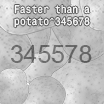
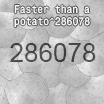
fix r135 name, requirement, description, and image

diff --git a/javascripts/game.js b/javascripts/game.js
@@ -2024,7 +2024,7 @@ function setAchieveTooltip() {
     var forgotAchieve = document.getElementById("I forgot to nerf that")
     var potato = document.getElementById("Faster than a potato")
     let potato2 = document.getElementById("Faster than a squared potato")
-    let potato3 = document.getElementById("Faster than a potato^345678")
+    let potato3 = document.getElementById("Faster than a potato^286078")
     var dimensional = document.getElementById("Multidimensional")
     var IPBelongs = document.getElementById("All your IP are belong to us")
     var reference = document.getElementById("Yet another infinity reference")
@@ -2053,7 +2053,7 @@ function setAchieveTooltip() {
     sanic.setAttribute('ach-tooltip', "Have antimatter/sec exceed your current antimatter above " + formatValue(player.options.notation, 1e63, 0, 0));
     potato.setAttribute('ach-tooltip', "Get more than " + formatValue(player.options.notation, 1e29, 0, 0) + " ticks per second. Reward: Reduces starting tick interval by 2%.");
     potato2.setAttribute('ach-tooltip', "Get more than " + formatValue(player.options.notation, 1e58, 0, 0) + " ticks per second. Reward: Reduces starting tick interval by 2%.");
-    potato3.setAttribute('ach-tooltip', "Get more than "+shortenCosts(new Decimal("1e8296272"))+" ticks per second.")
+    potato3.setAttribute('ach-tooltip', "Get more than "+shortenCosts(new Decimal("1e8296262"))+" ticks per second.")
     dimensional.setAttribute('ach-tooltip', "Reach " + formatValue(player.options.notation, 1e12, 0, 0) + " of all dimensions except 8th.");
     IPBelongs.setAttribute('ach-tooltip', "Big Crunch for "+shortenCosts(1e150)+" IP. Reward: Additional 4x multiplier to IP.")
     reference.setAttribute('ach-tooltip', "Get a x"+shortenDimensions(Number.MAX_VALUE)+" multiplier in a single sacrifice. Reward: Sacrifices are stronger.")
@@ -4686,7 +4686,7 @@ setInterval(function() {
     }
 
     if (player.replicanti.amount.gt(new Decimal("1e20000"))) giveAchievement("When will it be enough?")
-    if (player.tickspeed.e < -8296272) giveAchievement("Faster than a potato^345678")
+    if (player.tickspeed.e < -8296262) giveAchievement("Faster than a potato^286078")
     if (player.timestudy.studies.length == 0 && player.dilation.active && player.infinityPoints.e >= 20000) giveAchievement("This is what I have to do to get rid of you.")
     if (player.why >= 1e6) giveAchievement("Should we tell them about buy max...")
     if ( Math.max(document.documentElement.clientHeight, window.innerHeight || 0) <= 150 || parent.document.body.clientHeight <= 150) giveAchievement("Dip the antimatter")

diff --git a/index.html b/index.html
@@ -1478,7 +1478,7 @@
                                 <div id="When will it be enough?" class="achievement achievementlocked" style="background-image: url(images/92.png)" ach-tooltip="Reach 1e20,000 replicanti. Reward: You gain replicanti 2 times faster under 1.79e308 replicanti."><br></div>
                             </td>
                             <td>
-                                <div id="Faster than a potato^345678" class="achievement achievementlocked" style="background-image: url(images/93.png)" ach-tooltip="Get more than 1e8,296,272 ticks per second."><br></div>
+                                <div id="Faster than a potato^286078" class="achievement achievementlocked" style="background-image: url(images/93.png)" ach-tooltip="Get more than 1e8,296,262 ticks per second."><br></div>
                             </td>
                             <td>
                                 <div id="I told you already, time is relative" class="achievement achievementlocked" style="background-image: url(images/94.png)" ach-tooltip="Dilate time."><br></div>

diff --git a/javascripts/core/achievements.js b/javascripts/core/achievements.js
@@ -99,7 +99,7 @@ const allAchievements = {
   r132 : "Unique snowflakes",
   r133 : "I never liked this infinity stuff anyway",
   r134 : "When will it be enough?",
-  r135 : "Faster than a potato^345678",
+  r135 : "Faster than a potato^286078",
   r136 : "I told you already, time is relative",
   r137 : "Now you're thinking with dilation!",
   r138 : "This is what I have to do to get rid of you.",
